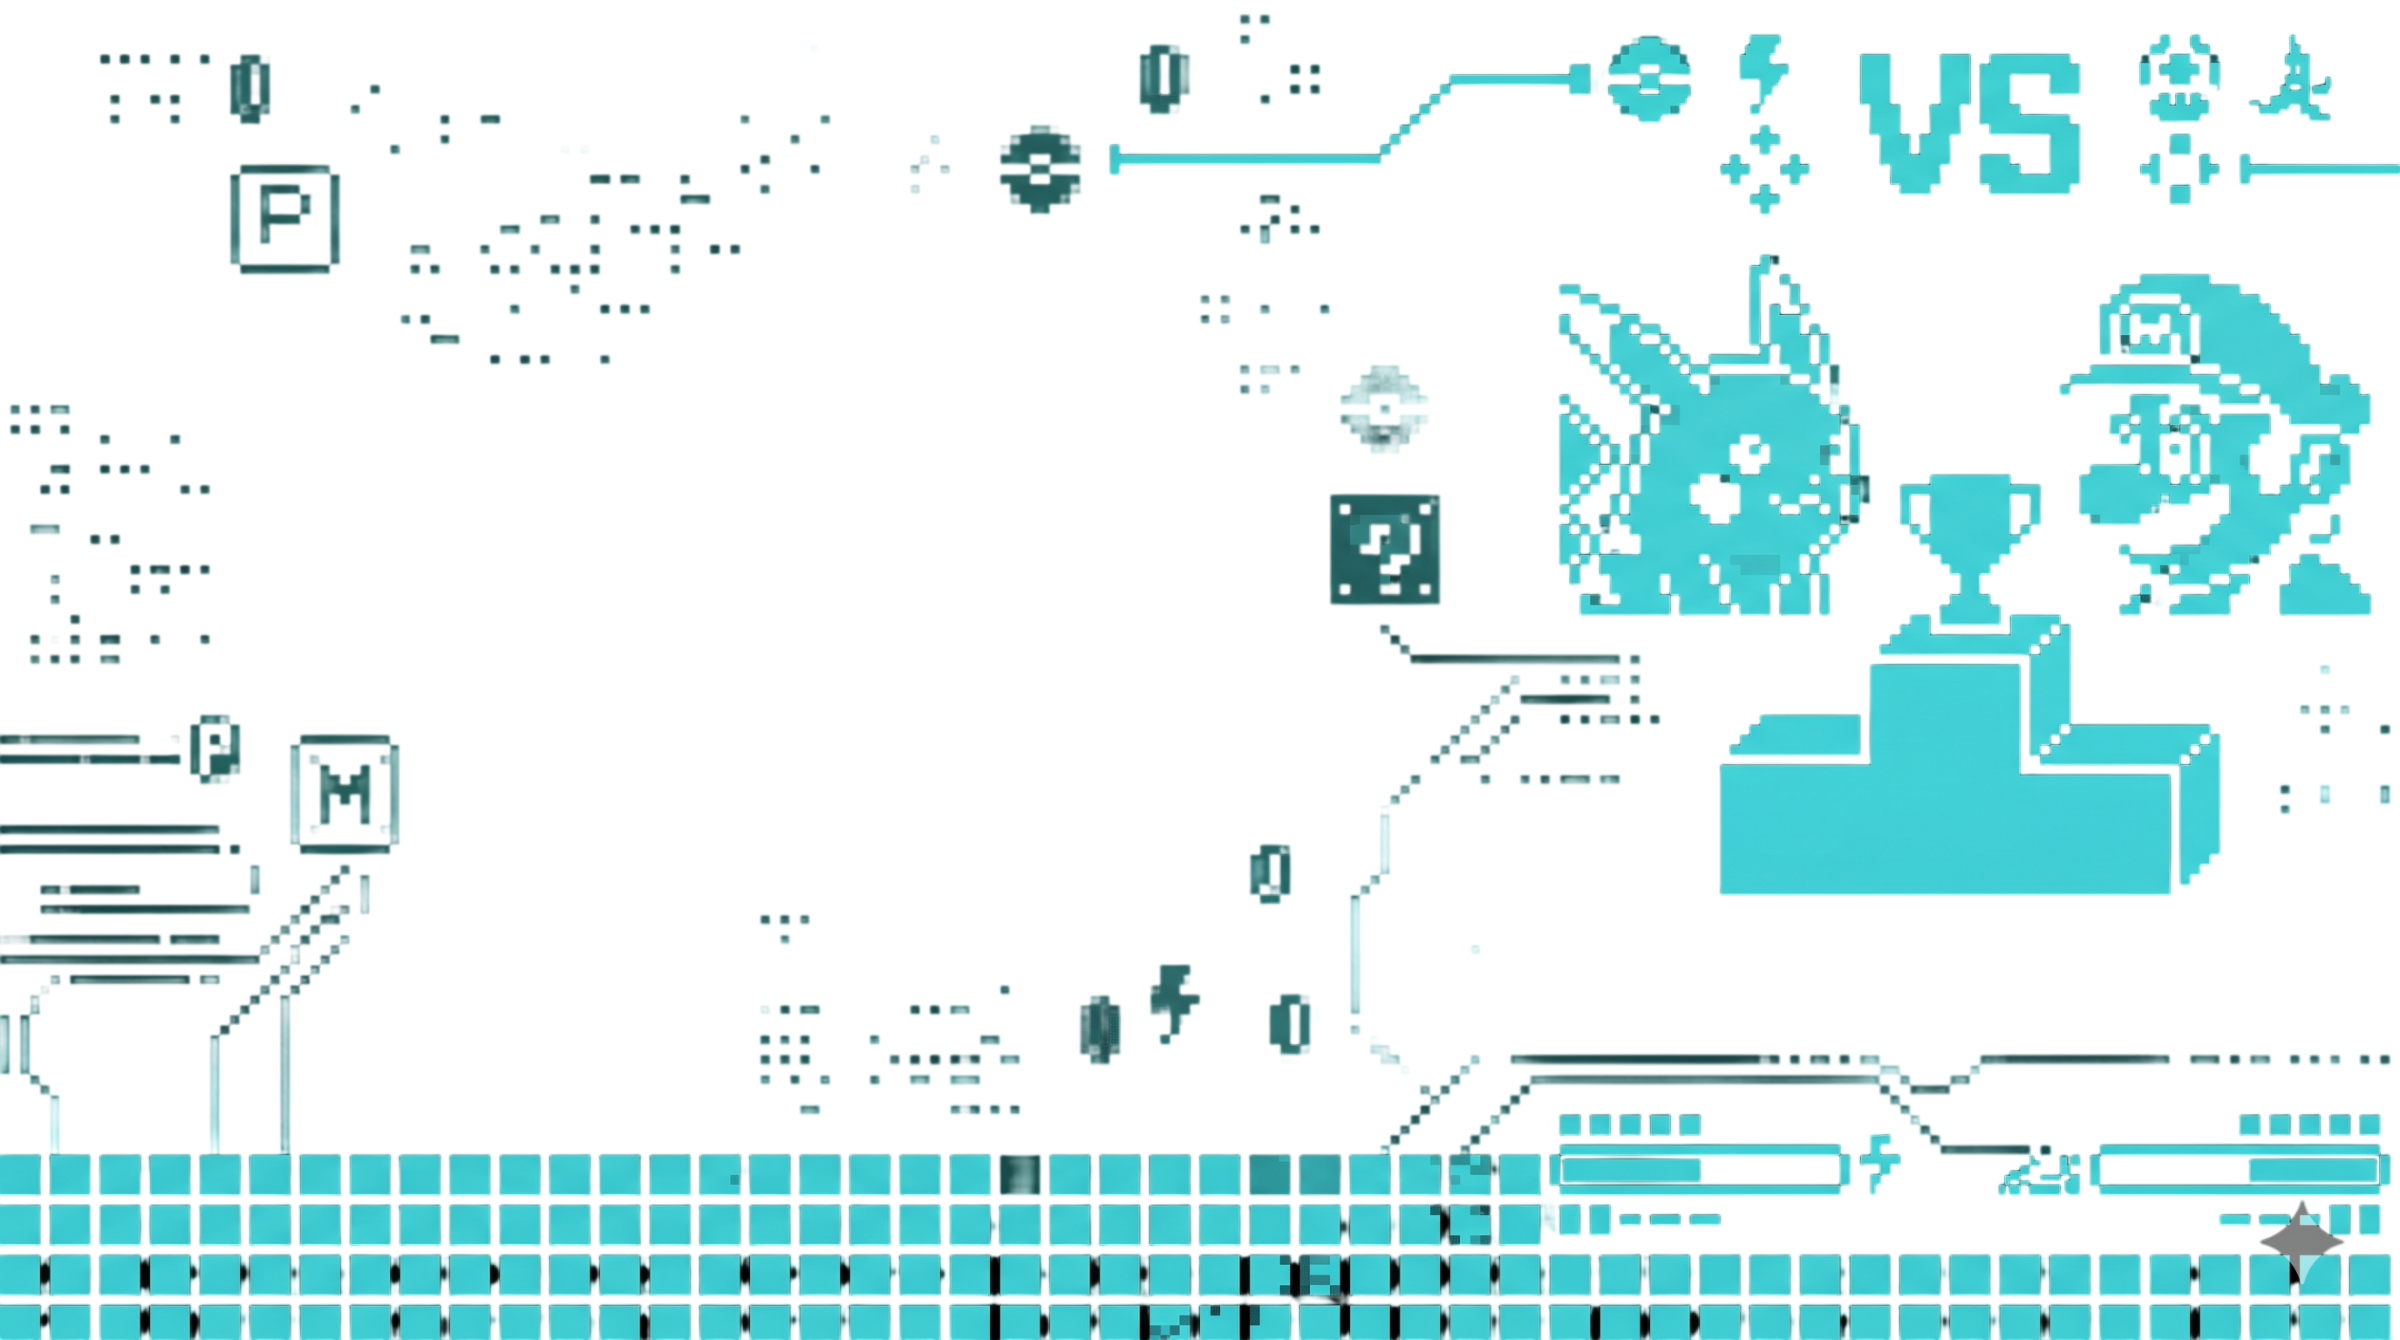
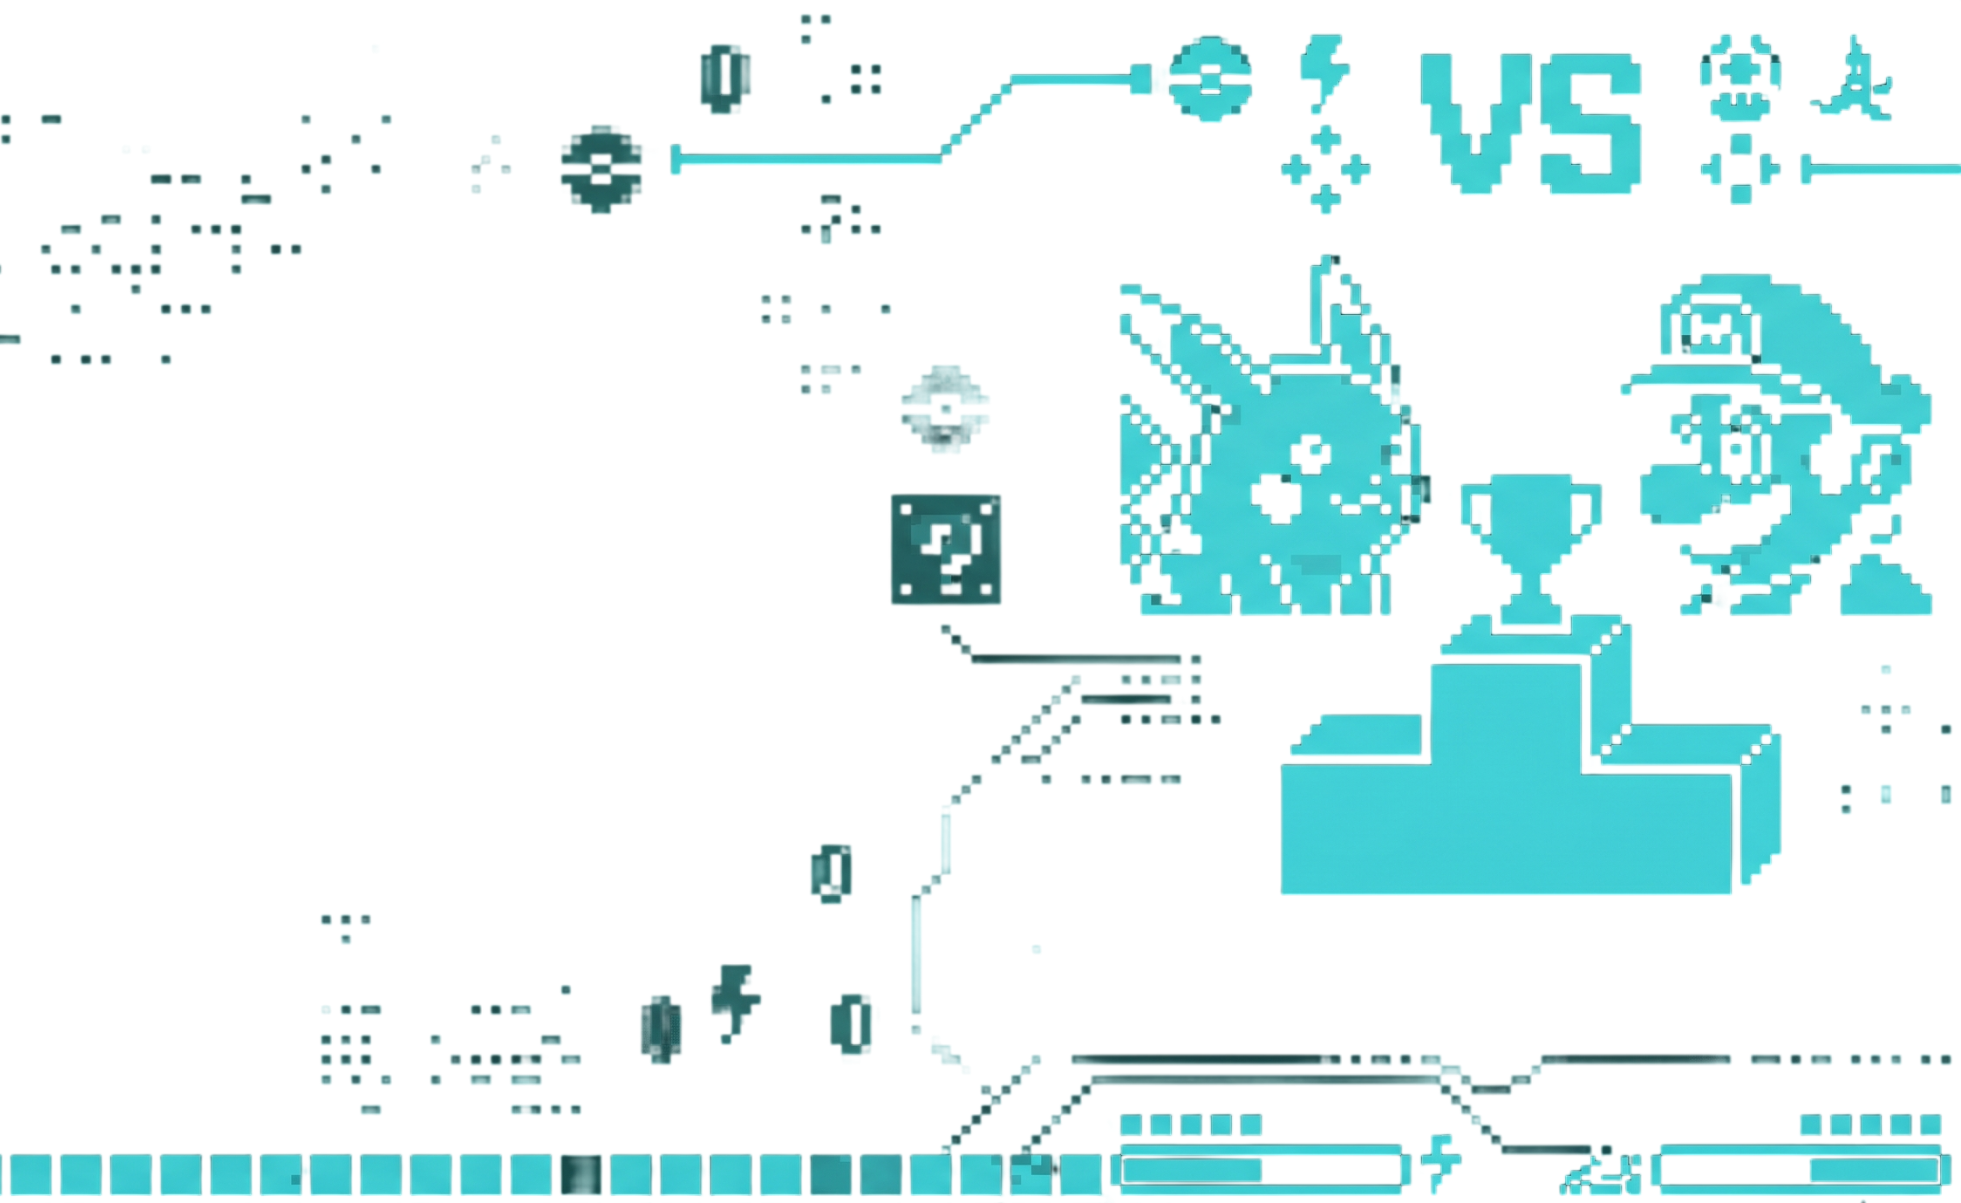
estilos y animaciones landing 80%

diff --git a/web/css/home.css b/web/css/home.css
@@ -1,16 +1,105 @@
 .hero{
-    color: var(--color-texto);
-    height: 60vh;
+    min-height: 60vh;
+    width: 100%;
     display: flex;
-    flex-direction: column;
     align-items: center;
-    justify-content: center;
+    justify-content: flex-start;
+    padding-left: 8%;
     background-image: url(../assets/img/fondo-azul-pikachu-mario-Photoroom.png);
-    background-size: contain;
+    background-size: cover;
     background-position: center;
 }
 
 .hero .glass {
-    align-self: flex-start; /* Esto lo mueve a la izquierda */
-    margin-left: 12%;        /* Opcional: para que no quede pegado al borde */
+    /* Una capa oscura semi-transparente */
+    background: rgba(13, 13, 21, 0.7); 
+    
+    /* El truco mágico: desenfoca lo que hay DETRÁS */
+    backdrop-filter: blur(8px); 
+    
+    padding: var(--container-padding);
+    border-radius: var(--radius);
+    border: var(--border-pixel); /* Un borde neón para que resalte */
+    
+    /* Asegura que el contenedor no sea demasiado ancho en móvil */
+    max-width: 90%;
+}
+
+.carrusel-seccion {
+    width: 100%;
+    overflow: hidden;
+    padding: 20px 0;
+    text-align: center;
+}
+
+.carrusel {
+    margin-top: var(--container-padding);
+    display: flex;
+    gap: var(--container-padding);
+    width: max-content;
+    animation: scroll-infinito 20s steps(30) infinite;
+}
+
+.tarjeta {
+    width: 280px;
+    min-height: 350px;
+    flex-shrink: 0;
+    display: flex;
+    flex-direction: column;
+    align-items: center;
+    border: var(--border-pixel);
+    border-radius: var(--radius);
+    padding: var(--container-padding);
+    gap: 5px;
+    box-shadow: var(--shadow-retro);
+}
+
+@media (max-width: 1024px) {
+    .carrusel-seccion {
+        overflow: visible;
+    }
+    .carrusel {
+        animation: none;
+        display: grid;
+        grid-template-columns: repeat(2, 1fr);
+        gap: var(--container-padding);
+        width: 100%;
+        justify-items: center;
+    }
+}
+
+@media (max-width: 650px) {
+    .carrusel {
+        grid-template-columns: 1fr;
+    }
+
+    .tarjeta {
+        width: 90%;
+        max-width: 280px;
+    }
+
+    .hero {
+        padding-left: 0;
+        justify-content: center;
+    }
+
+
+    .hero .glass {
+        width: 90%;
+        text-align: center;
+    }
+
+    .hero h2 {
+        font-size: 1.5rem;
+    }
+
+}
+
+@keyframes scroll-infinito {
+    0% {
+        transform: translateX(0);
+    }
+    100% {
+        transform: translateX(-50%);
+    }
 }

diff --git a/web/css/global.css b/web/css/global.css
@@ -2,17 +2,18 @@
     --bg-color: #12181f;
     --text-color: #a3aab4;
 
-    --accent-1: #d0fa00;
-    --accent-2: #3dcdda;
+    --accent-1: #3dcdda;
+    --accent-2: #d0fa00;
 
     --font-titles: 'Bitcount Grid Double', system-ui;
     --font-retro: 'Jersey 25', sans-serif;
 
-    --shadow-retro: 4px 4px 0px var(--accent-2);
-    --border-pixel: 3px solid var(--text-color);
+    --shadow-retro: 4px 4px 0px var(--accent-1);
+    --border-pixel: 2px solid var(--accent-1);
+    --radius: 4px;
 
     --spacing-unit: 8px;
-    --container-padding: 24px;
+    --container-padding: 20px;
 
     --glow-cyan: 0 0 10px rgba(0, 255, 204, 0.7);
 }
@@ -21,6 +22,10 @@
     margin: 0;
     padding: 0;
     box-sizing: border-box;
+}
+
+html {
+    scroll-behavior: smooth;
 }
 
 body {
@@ -56,8 +61,7 @@ header {
     display: flex;
     align-items: center;
     justify-content: space-around;
-    border-bottom: 1px solid;
-    border-color: var(--accent-1);
+    border-bottom: 1px solid var(--accent-1);
     padding: var(--container-padding);
     position: sticky;
     top: 0;
@@ -71,4 +75,34 @@ header {
 nav ul{
     display: flex;
     gap: var(--container-padding);
+}
+
+footer {
+    display: flex;
+    align-items: center;
+    justify-content: space-evenly;
+    height: 100px;
+    border-top: 1px solid var(--accent-1);
+    margin-top: var(--container-padding);
+}
+
+@media (max-width: 768px) {
+    header {
+        flex-direction: column; /* Apila logo, título y nav */
+        gap: 15px;
+        padding: var(--container-padding);
+    }
+
+    nav ul { /* Los enlaces uno debajo de otro */
+        align-items: center;
+        gap: 10px;
+    }
+
+    footer {
+        flex-direction: column;
+        gap: 15px;
+        padding: var(--container-padding);
+    }
+
+
 }

diff --git a/web/index.html b/web/index.html
@@ -20,14 +20,14 @@
 <body>
 
     <header>
-        <img src="./assets/img/logo.png" alt="logo" class="logo">
+        <a href="#"><img src="./assets/img/logo.png" alt="logo" class="logo"></a>
         <h1>RetroPVPArena</h1>
         <nav>
             <ul>
                 <li><a href="#">Inicio</a></li>
-                <li><a href="#">Torneos</a></li>
-                <li><a href="#">Tienda</a></li>
-                <li><a href="#">Información</a></li>
+                <li><a href="./pages/torneos.html">Torneos</a></li>
+                <li><a href="./pages/tienda.html">Tienda</a></li>
+                <li><a href="#grid-about-form">Información</a></li>
             </ul>
         </nav>
     </header>
@@ -40,9 +40,9 @@
                 <a href="/web/pages/torneos.html">torneos</a>
             </div>
         </section>
-        <section class="carrusel-tarjetas">
+        <section class="carrusel-seccion">
             <h2>placeholder tienda</h2>
-            <div>
+            <div class="carrusel">
                 <article class="tarjeta">
                     <h3>placeholder tarjeta</h3>
                     <img src="" alt="producto">
@@ -81,7 +81,7 @@
                 </article>
             </div>
         </section>
-        <section class="grid-about-form">
+        <section class="grid-about-form" id="grid-about-form">
             <h2>Sobre nosotros...</h2>
             <article class="about">
                 <h3>placeholder info</h3>

diff --git a/web/pages/tienda.html b/web/pages/tienda.html
@@ -12,14 +12,14 @@
     <link
         href="https://fonts.googleapis.com/css2?family=Bitcount+Grid+Double:wght@100..900&family=Jersey+25&display=swap"
         rel="stylesheet">
-    <link rel="stylesheet" href="./css/global.css">
+    <link rel="stylesheet" href="../css/global.css">
     <link rel="stylesheet" href="../css/tienda.css">
     <script src="js/script.js" defer></script>
 </head>
 
 <body>
     <header>
-        <img src="" alt="logo">
+        <img src="../assets/img/logo.png" alt="logo" class="logo">
         <h1>RetroPVPArena</h1>
         <nav>
             <ul>
@@ -112,13 +112,12 @@
         </section>
     </main>
     <footer>
-        <footer>
-            <p>RetroPVPArena © 2026</p>
-            <a href="info-clientes@retropvparena.com">
-                <p>Email: info-clientes@retropvparena.com</p>
-            </a>
-            <p>Tlf: 697161395</p>
-        </footer>
+        <p>RetroPVPArena © 2026</p>
+
+        <p>Email: <a href="mailto:info-clientes@retropvparena.com">info-clientes@retropvparena.com</a></p>
+
+        <p>Tlf: <a href="tel:+34697161395">697 161 395</a></p>
+    </footer>
 </body>
 
 </html>

diff --git a/web/pages/torneos.html b/web/pages/torneos.html
@@ -12,14 +12,14 @@
     <link
         href="https://fonts.googleapis.com/css2?family=Bitcount+Grid+Double:wght@100..900&family=Jersey+25&display=swap"
         rel="stylesheet">
-    <link rel="stylesheet" href="./css/global.css">
+    <link rel="stylesheet" href="../css/global.css">
     <link rel="stylesheet" href="../css/torneos.css">
     <script src="js/script.js" defer></script>
 </head>
 
 <body>
     <header>
-        <img src="" alt="logo">
+        <img src="../assets/img/logo.png" alt="logo" class="logo">
         <h1>RetroPVPArena</h1>
         <nav>
             <ul>
@@ -86,13 +86,12 @@
         </section>
     </main>
     <footer>
-        <footer>
-            <p>RetroPVPArena © 2026</p>
-            <a href="info-clientes@retropvparena.com">
-                <p>Email: info-clientes@retropvparena.com</p>
-            </a>
-            <p>Tlf: 697161395</p>
-        </footer>
+        <p>RetroPVPArena © 2026</p>
+
+        <p>Email: <a href="mailto:info-clientes@retropvparena.com">info-clientes@retropvparena.com</a></p>
+
+        <p>Tlf: <a href="tel:+34697161395">697 161 395</a></p>
+    </footer>
 </body>
 
 </html>
